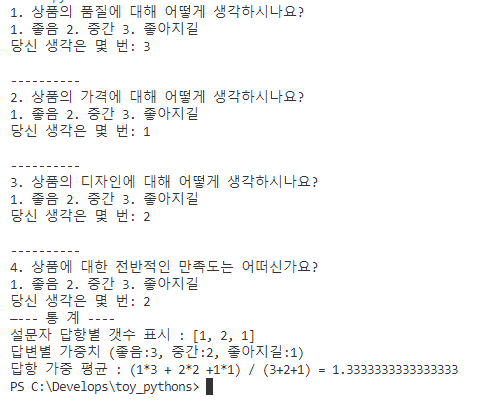
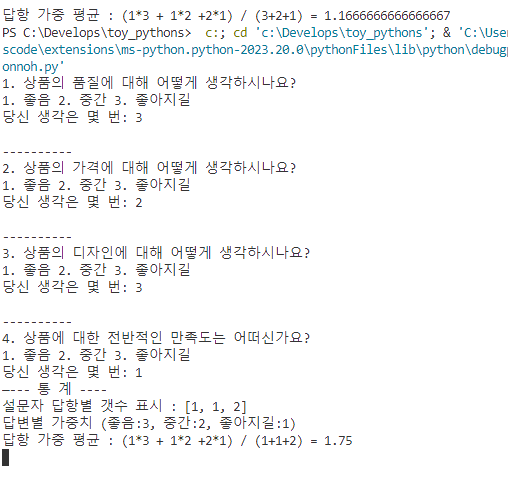
수정

Changed region(s): [[0.0, 0.0, 1.0, 0.9706]]

diff --git a/docs/polls_second/polls_second_juhyeonnoh.py b/docs/polls_second/polls_second_juhyeonnoh.py
@@ -24,9 +24,9 @@ for num_question_count in range(len(list_question)):
     elif num_question_count==3 :
         break
 pass
-num_average = (list_statistics[0] * 3 + list_statistics[1] * 2 + list_statistics[2] * 1)/(3 + 2 + 1)
+num_average = (list_statistics[0] * 3 + list_statistics[1] * 2 + list_statistics[2] * 1)/(list_statistics[0] + list_statistics[1] + list_statistics[2])
 print("—--- 통 계 ----")
 print("설문자 답항별 갯수 표시 : {}".format(list_statistics))
 print("답변별 가중치 (좋음:3, 중간:2, 좋아지길:1)")
-print("답항 가중 평균 : ({}*3 + {}*2 +{}*1) / (3+2+1) = {}".format(list_statistics[0],list_statistics[1],list_statistics[2],num_average))
+print("답항 가중 평균 : ({}*3 + {}*2 +{}*1) / ({}+{}+{}) = {}".format(list_statistics[0],list_statistics[1],list_statistics[2],list_statistics[0],list_statistics[1],list_statistics[2],num_average))
 pass
